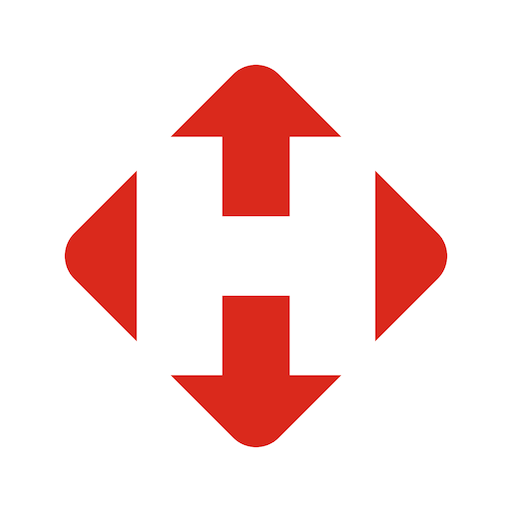
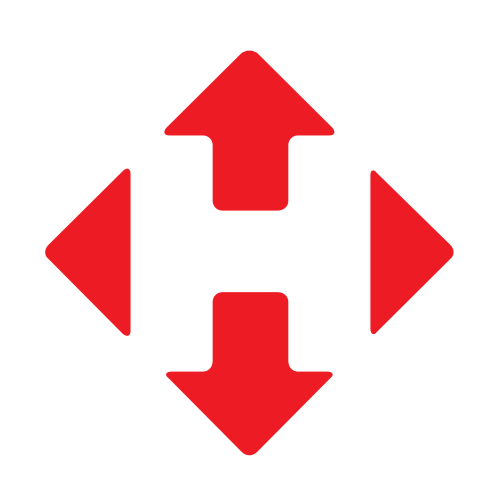
style: update badge styling and delivery info
- Apply increased font size to delivery badge icons
- Add dark mode support for delivery badge icon styling
- Refine Nova Poshta delivery info banner label

diff --git a/index.html b/index.html
@@ -3059,6 +3059,12 @@
             overflow: hidden;
             box-shadow: 0 1px 4px rgba(0, 0, 0, 0.05);
             flex-shrink: 0;
+            font-size: 1.15rem;
+        }
+        [data-theme="dark"] .modal-delivery-badge-icon {
+            background: #ffffff;
+            border-color: rgba(255, 255, 255, 0.2);
+            box-shadow: 0 2px 8px rgba(0, 0, 0, 0.35);
         }
         .modal-delivery-badge-icon img {
             width: 100%;
@@ -3301,6 +3307,7 @@
             padding: 5px;
             box-shadow: 0 2px 6px rgba(0, 0, 0, 0.05);
             overflow: hidden;
+            font-size: 1.35rem;
         }
         [data-theme="dark"] .delivery-provider-icon {
             background: #ffffff;
@@ -5385,10 +5392,10 @@
 
                     <!-- NOVA POSHTA FLOW -->
                     <div id="delivery-np-flow" style="display: flex; flex-direction: column; gap: 14px; margin-top: 6px;">
-                        <!-- Nova Poshta Brand & Premium Setup Info Banner -->
+                        <!-- Nova Poshta Delivery Info Banner -->
                         <div class="delivery-brand-info-banner" style="display: flex; align-items: flex-start; gap: 12px; background: rgba(218, 41, 28, 0.06); border: 1.5px solid rgba(218, 41, 28, 0.22); border-radius: var(--radius-sm); padding: 12px 14px;">
                             <div style="width: 42px; height: 42px; flex-shrink: 0; display: flex; align-items: center; justify-content: center; background: #ffffff; border-radius: 10px; border: 1.5px solid rgba(218, 41, 28, 0.25); box-shadow: 0 2px 6px rgba(218, 41, 28, 0.08); padding: 5px; overflow: hidden;">
-                                <img src="unnamed44.png" alt="Нова Пошта" style="width: 100%; height: 100%; object-fit: contain; display: block; image-rendering: -webkit-optimize-contrast; image-rendering: high-quality;">
+                                <img src="unnamed52.png" alt="Нова Пошта" style="width: 100%; height: 100%; object-fit: contain; display: block; image-rendering: -webkit-optimize-contrast; image-rendering: high-quality;">
                             </div>
                             <div style="flex: 1; font-size: 0.8rem; color: var(--text-primary); line-height: 1.45;">
                                 <div style="font-weight: 800; color: #DA291C; margin-bottom: 2px; font-size: 0.85rem;">⚡ M1lipStore × Нова Пошта • Преміальна доставка девайсів</div>
@@ -5435,7 +5442,7 @@
                     <div id="delivery-up-flow" style="display: none; flex-direction: column; gap: 14px; margin-top: 6px;">
                         <div class="delivery-brand-info-banner" style="display: flex; align-items: flex-start; gap: 12px; background: rgba(245, 186, 24, 0.08); border: 1.5px solid rgba(245, 186, 24, 0.35); border-radius: var(--radius-sm); padding: 12px 14px;">
                             <div style="width: 42px; height: 42px; flex-shrink: 0; display: flex; align-items: center; justify-content: center; background: #ffffff; border-radius: 10px; border: 1.5px solid rgba(245, 186, 24, 0.4); box-shadow: 0 2px 6px rgba(245, 186, 24, 0.12); padding: 5px; overflow: hidden;">
-                                <img src="90fd17b5b96113e0860a4f4279c50868777.jpg" alt="Укрпошта" style="width: 100%; height: 100%; object-fit: contain; display: block; image-rendering: -webkit-optimize-contrast; image-rendering: high-quality;">
+                                <img src="90fd17b5b96113e0860a4f4279c50868112.jpg?v=1080" alt="Укрпошта" style="width: 100%; height: 100%; object-fit: contain; display: block; image-rendering: -webkit-optimize-contrast; image-rendering: high-quality;">
                             </div>
                             <div style="flex: 1; font-size: 0.8rem; color: var(--text-primary); line-height: 1.45;">
                                 <div style="font-weight: 800; color: #b45309; margin-bottom: 2px; font-size: 0.85rem;">📮 Доставка Укрпоштою по всій Україні</div>
@@ -5936,7 +5943,7 @@
                         <div class="modal-delivery-badges">
                             <div class="modal-delivery-badge-item">
                                 <div class="modal-delivery-badge-icon">
-                                    <img src="unnamed44.png" id="modal-delivery-np-img" alt="Нова Пошта">
+                                    <img src="unnamed52.png" id="modal-delivery-np-img" alt="Нова Пошта">
                                 </div>
                                 <div class="modal-delivery-badge-text">
                                     <strong>Нова Пошта</strong>
@@ -5945,7 +5952,7 @@
                             </div>
                             <div class="modal-delivery-badge-item">
                                 <div class="modal-delivery-badge-icon">
-                                    <img src="90fd17b5b96113e0860a4f4279c50868777.jpg" id="modal-delivery-up-img" alt="Укрпошта">
+                                    <img src="90fd17b5b96113e0860a4f4279c50868112.jpg?v=1080" id="modal-delivery-up-img" alt="Укрпошта">
                                 </div>
                                 <div class="modal-delivery-badge-text">
                                     <strong>Укрпошта</strong>
@@ -6027,12 +6034,11 @@
 
     <script>
         // =========================================================================
-        // 📦 НАЛАШТУВАННЯ ЛОГОТИПІВ ПЕРЕВІЗНИКІВ (НОВА ПОШТА / УКРПОШТА)
-        // Щоб замінити логотипи на власні, просто змініть шляхи або URL нижче:
+        // 📦 НАЛАШТУВАННЯ ДОСТАВКИ (НОВА ПОШТА / УКРПОШТА)
         // =========================================================================
         const CARRIER_LOGOS = {
-            novaPoshta: 'unnamed44.png',                     // <-- Шлях/URL для логотипу Нової Пошти
-            ukrposhta: '90fd17b5b96113e0860a4f4279c50868777.jpg' // <-- Шлях/URL для логотипу Укрпошти
+            novaPoshta: 'unnamed52.png?v=2',
+            ukrposhta: '90fd17b5b96113e0860a4f4279c50868112.jpg?v=1080'
         };
 
         function syncCarrierLogosDOM() {
